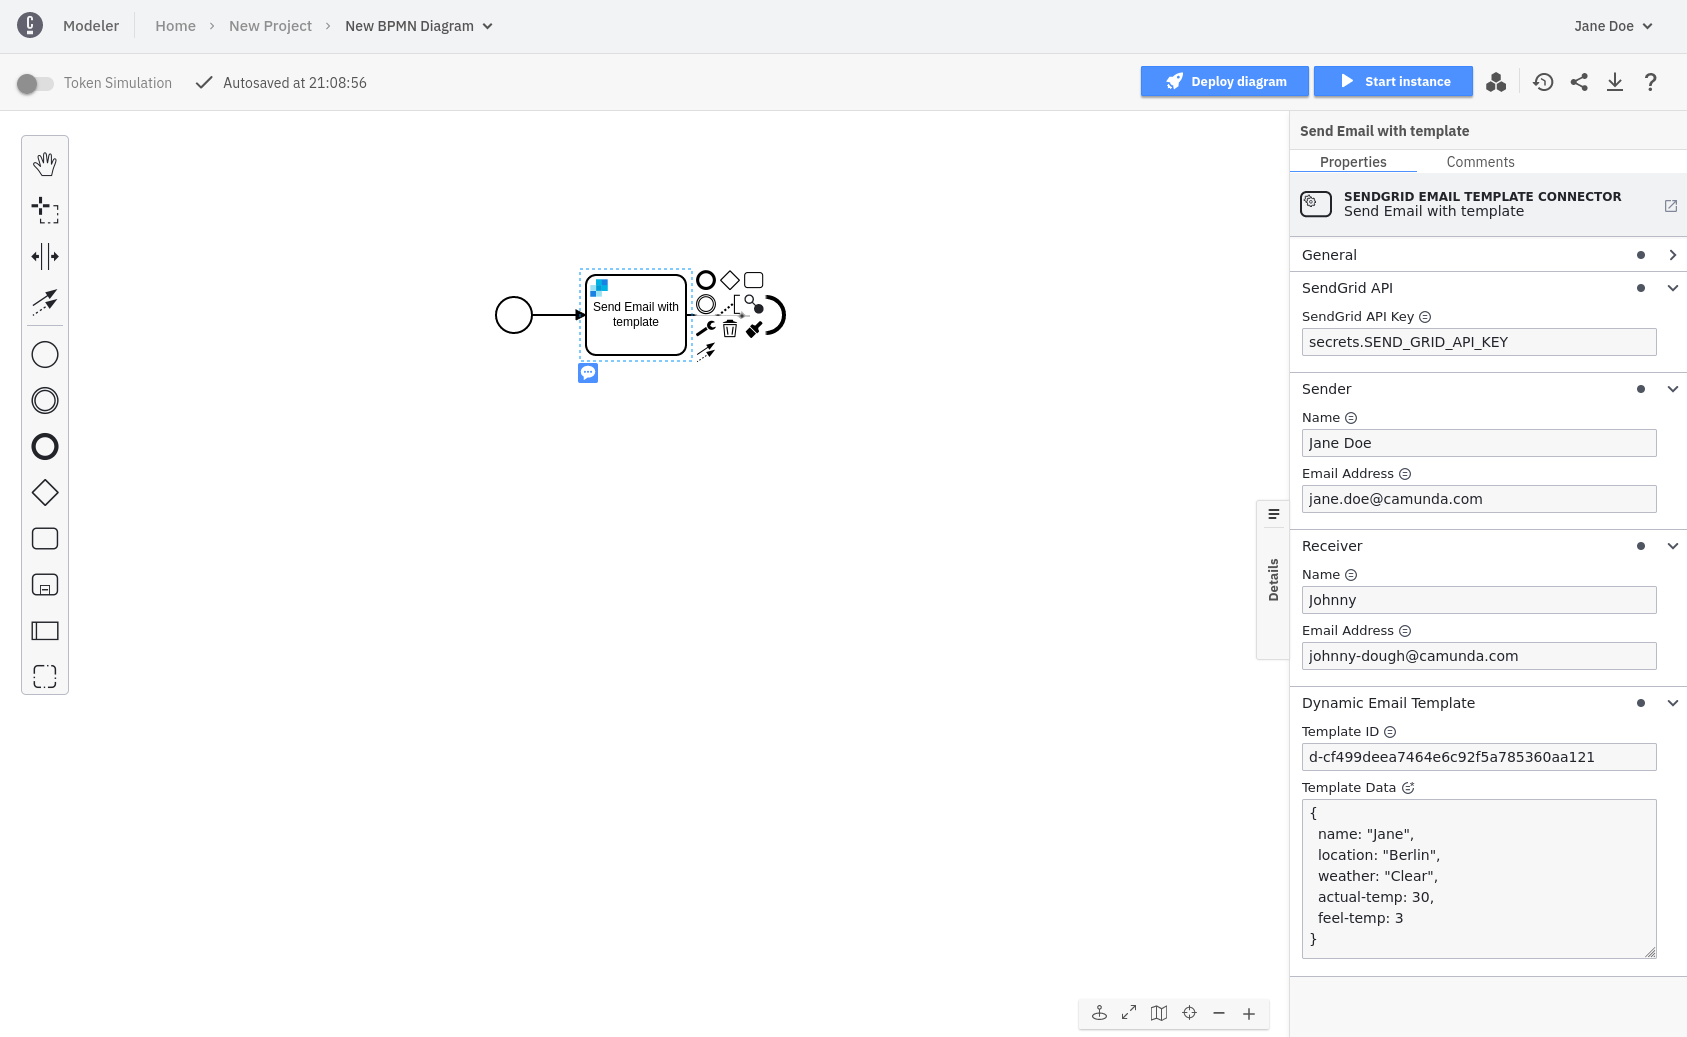
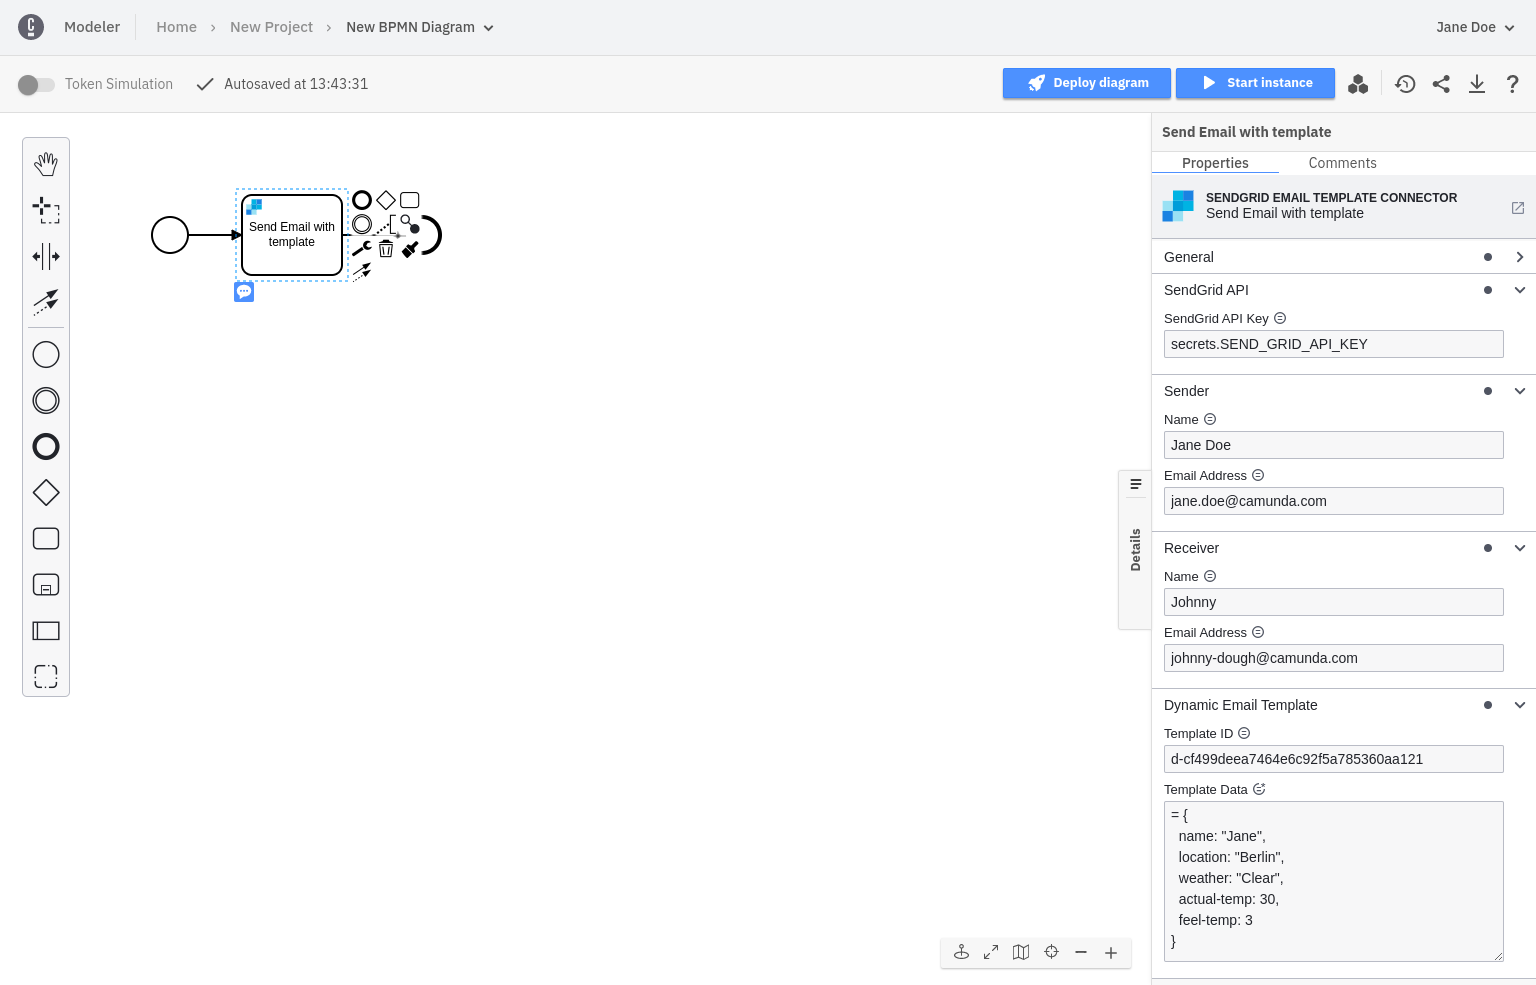
fix(webmodeler): improve sendgrid and rest connector docs
related with https://github.com/camunda/cloud-connectors/issues/21

diff --git a/docs/components/modeler/web-modeler/connectors/available-connectors/rest.md b/docs/components/modeler/web-modeler/connectors/available-connectors/rest.md
@@ -128,27 +128,27 @@ Be aware that **REST connector** is supporting only JSON payload.
 
 ## Response
 
-The HTTP response will be available in your process in the **response** variable.
+The HTTP response will be available in a temporary local `response` variable. This variable can be map to the process by specifing **Result Variable**.
 
-The following fields are available in the **response** variable:
+The following fields are available in the `response` variable:
 
 * **status**: the response status
 * **body**: the response body of your request
 * **headers**: the response headers
 
-You can choose to map the content of your **response** in a **Result Variable** using again the ![feel-icon](../img/feel-icon.png) [FEEL Map](https://camunda.github.io/feel-scala/docs/reference/language-guide/feel-data-types/#context) data type.
+Additionally you can choose to unpack the content of your `response` into multiple process variables using the ![feel-icon](../img/feel-icon.png) **Result Expression** which is a [FEEL Context Expression](/components/modeler/feel/language-guide/feel-context-expressions.md).
 
 ```text
 = {
     actual_temp: response.body.main.temp,
     feel_temp: response.body.main.feels_like,
-    weather: body.weather[1].main
+    weather: response.body.weather[1].main
 }
 ```
 
 ![rest connector http response mapping](../img/connectors-rest-http-response-mapping.png)
 
-The next steps in your process will have access to the **currentWeather** variable that will contain the mapped keys: `actual_temp`, `feel_temp`, and `weather`.
+The next steps in your process will have access to the `currentWeather` variable that will contain the full response and the mapped variables from the result expression: `actual_temp`, `feel_temp`, and `weather`.
 
 
 :::note

diff --git a/docs/components/modeler/web-modeler/connectors/available-connectors/sendgrid.md b/docs/components/modeler/web-modeler/connectors/available-connectors/sendgrid.md
@@ -128,10 +128,10 @@ To make the **SendGrid Email Template Connector** executable, fill out all the m
 
 ![get sendgrid template id](../img/connectors-sendgrid-email-template-id.png)
 
-8. Provide the test data in the **Template Data** field.
+8. Provide the test data in the **Template Data** field as a [FEEL context expression](/components/modeler/feel/language-guide/feel-context-expressions.md):
 
 ```text
-{
+= {
   name: "Jane",
   location: "Berlin",
   weather: "Clear",
